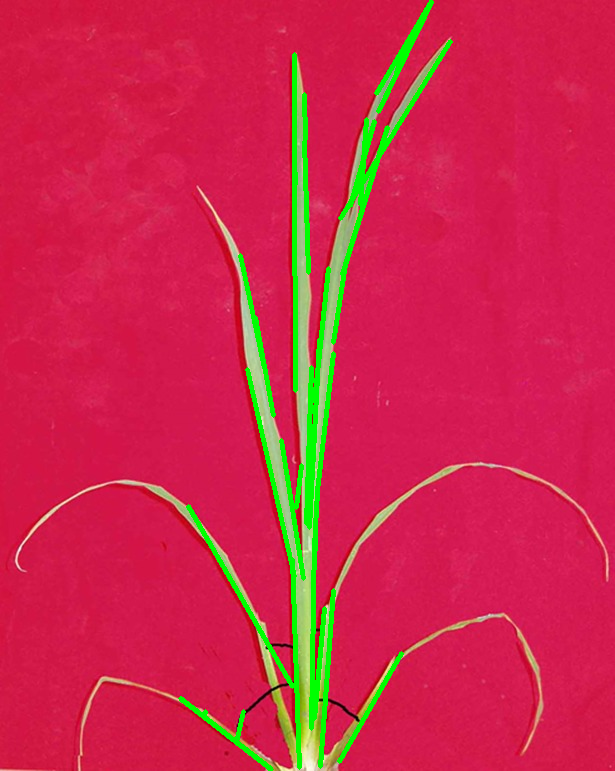
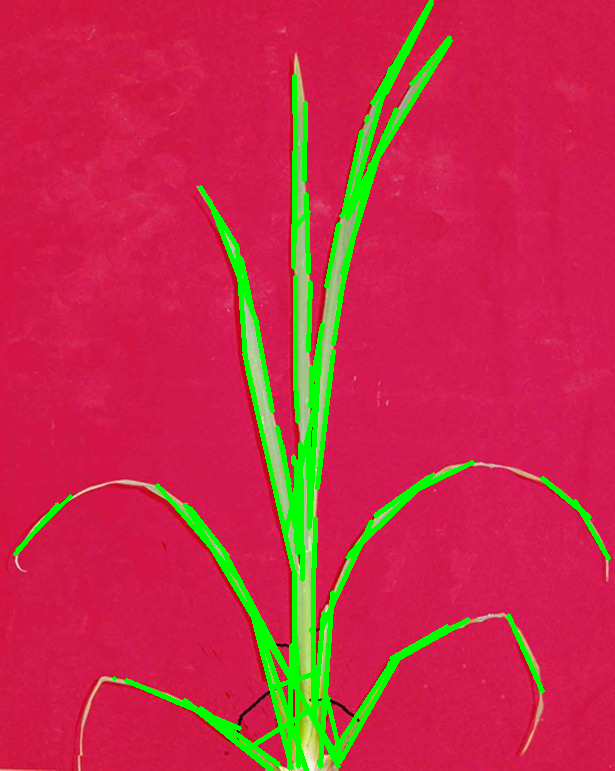
UseCase Image
Changes:
- Added code to save temporary images
- Added Comput function to determine angle of lines to horizontal
- Updated Constant Values

diff --git a/Line Detection.py b/Line Detection.py
@@ -2,8 +2,101 @@ import math
 import numpy as np
 import cv2
 
+#def centerOfLines():
+
+def extractLines(edges):
+    # Line Detection
+    # This returns an array of r and theta values 
+    #lines = cv2.HoughLines(edges,4,np.pi/180, 80)
+    lines = cv2.HoughLinesP(edges, 1, np.pi/180, 85, maxLineGap=40)
+
+    angle = 0.0;
+    count_stem_lines = 0
+
+    for line in lines:
+        x1, y1, x2, y2 = line[0]
+        # add lines to image
+        cv2.line(img, (x1, y1), (x2, y2), (0, 255, 0), 3)
+    
+
+    #cv2.imshow("Image lines", img)
+    cv2.imwrite("verticalLines.jpg", vertical)
+    
+def verticalLines(image):
+
+    gray = cv2.cvtColor(image,cv2.COLOR_BGR2GRAY)
+    thresh = cv2.adaptiveThreshold(gray, 255, cv2.ADAPTIVE_THRESH_MEAN_C, cv2.THRESH_BINARY_INV, 25, 15)
+    
+    # Copy image to extract vertical lines from
+    vertical = np.copy(thresh)
+    
+    # Specify size on vertical axis
+    rows = vertical.shape[0]
+    verticalsize = math.ceil(rows / 10)
+
+    # Create structure element for extracting vertical lines through morphology operations
+    verticalStructure = cv2.getStructuringElement(cv2.MORPH_RECT, (1, verticalsize))
+    
+
+    # Apply morphology operations
+    vertical = cv2.erode(vertical, verticalStructure)
+    vertical = cv2.dilate(vertical, verticalStructure)
+    print(vertical)
+
+    # Show extracted vertical lines
+    cv2.imwrite("vertical.jpg", vertical)
+    
+
+    # sum columns. Find the 2 columns with the most 1s
+    #for i in range(len(vertical)):
+    #    for j in range(len(vertical[i])):
+    #        print(vertical[i][j])
+
+    #cv2.imshow('mmmmm1',thresh)
+    thresh-=vertical
+    #cv2.imshow('mmmmm',thresh)
+
+    cv2.imwrite("noVerticalThresh.jpg", thresh)
+    
+    
+def horizontalLines(image):
+    gray = cv2.cvtColor(image,cv2.COLOR_BGR2GRAY)
+    thresh = cv2.adaptiveThreshold(gray, 255, cv2.ADAPTIVE_THRESH_MEAN_C, cv2.THRESH_BINARY_INV, 25, 15)
+    
+    # Create the images that will use to extract the horizontal and vertical lines
+    horizontal = np.copy(thresh)
+
+    # Specify size on horizontal axis
+    cols = horizontal.shape[1]
+    horizontal_size = math.ceil(cols / 20)
+
+    # Create structure element for extracting horizontal lines through morphology operations
+    horizontalStructure = cv2.getStructuringElement(cv2.MORPH_RECT, (horizontal_size, 1))
+
+    # Apply morphology operations
+    horizontal = cv2.erode(horizontal, horizontalStructure)
+    horizontal = cv2.dilate(horizontal, horizontalStructure)
+
+    # Show extracted horizontal lines
+    cv2.imwrite("horizontal.jpg", horizontal)
+    
+    
+    
+def radToDegree(val):
+    #print(np.rad2deg(val))
+    return np.rad2deg(val)
+    
 # Read image
 img = cv2.imread('./Photos/3.jpg')
+
+# Locate the Horizontal and Vertical pixels
+horizontalLines(img)
+verticalLines(img)
+
+# Retrieve vertical line values
+imgVert = cv2.imread('vertical.jpg')
+#extractLines(imgVert)
+
 
 # Convert Image to Grayscale
 grey_image = cv2.cvtColor(img, cv2.COLOR_BGR2GRAY)
@@ -45,12 +138,44 @@ cv2.imshow('Edges image',edges)
 # Line Detection
 # This returns an array of r and theta values 
 #lines = cv2.HoughLines(edges,4,np.pi/180, 80)
-lines = cv2.HoughLinesP(edges, 1, np.pi/180, 85, maxLineGap=40)
+lines = cv2.HoughLinesP(edges, 1, np.pi/180, 50, maxLineGap=40)
 
-for line in lines:
+angle = 0.0
+count_stem_lines = 0
+
+sumAngle = 0.0
+for line in lines:    
     x1, y1, x2, y2 = line[0]
     # add lines to image
     cv2.line(img, (x1, y1), (x2, y2), (0, 255, 0), 3)
+    radianA = math.atan2(abs(y1 - y2), abs(x1 - x2))
+    
+    angleHor = np.rad2deg(radianA)
+    angle = angleHor 
+    
+    print("Hello Rice", angle)
+    sumAngle += angle;
+
+    count_stem_lines += 1 
+    
+
+    """
+    #print(deg)
+    if (deg > 91.0 or deg < 89.0):
+        convert = deg - 90
+        print(deg-90)
+    else:
+        count_stem_lines = count_stem_lines + 1 
+        print("ROOT StemLines: ", count_stem_lines)
+    """
+
+averageAng = sumAngle / count_stem_lines
+print("sum: ", sumAngle)
+print("StemLines: ", count_stem_lines)
+print("averageAng: ", averageAng)
+
+
+    
 
 
 #lines = cv2.HoughLines(edges,1,np.pi/180,200)
